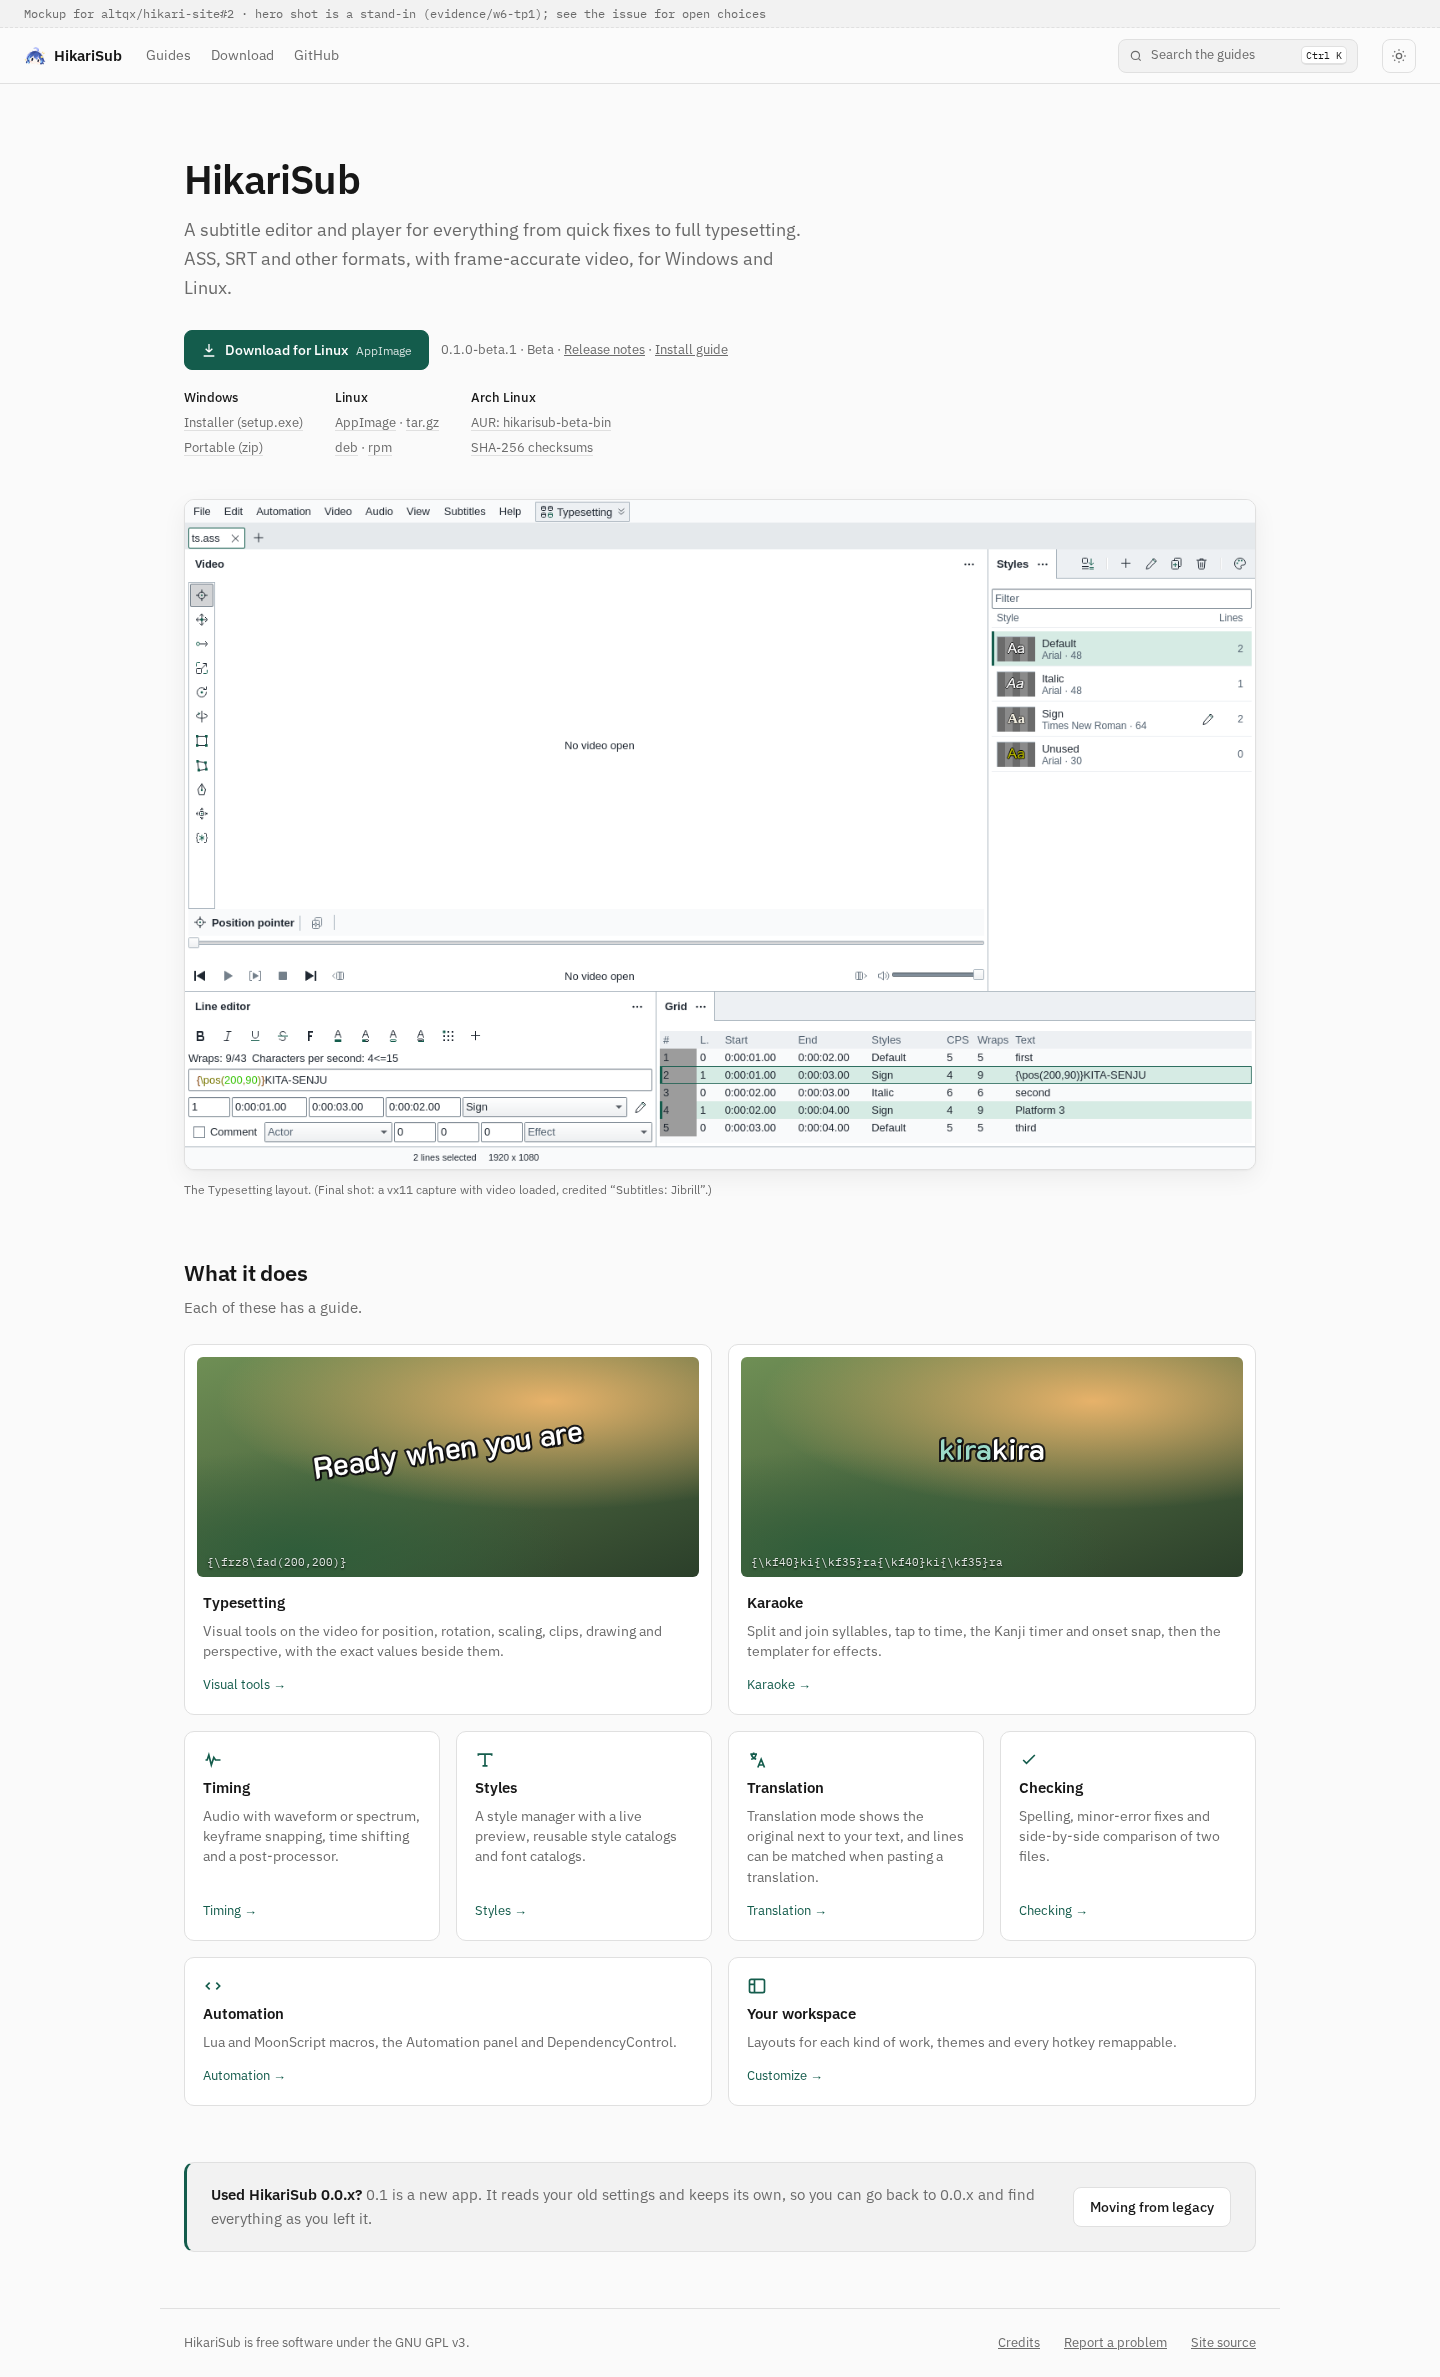
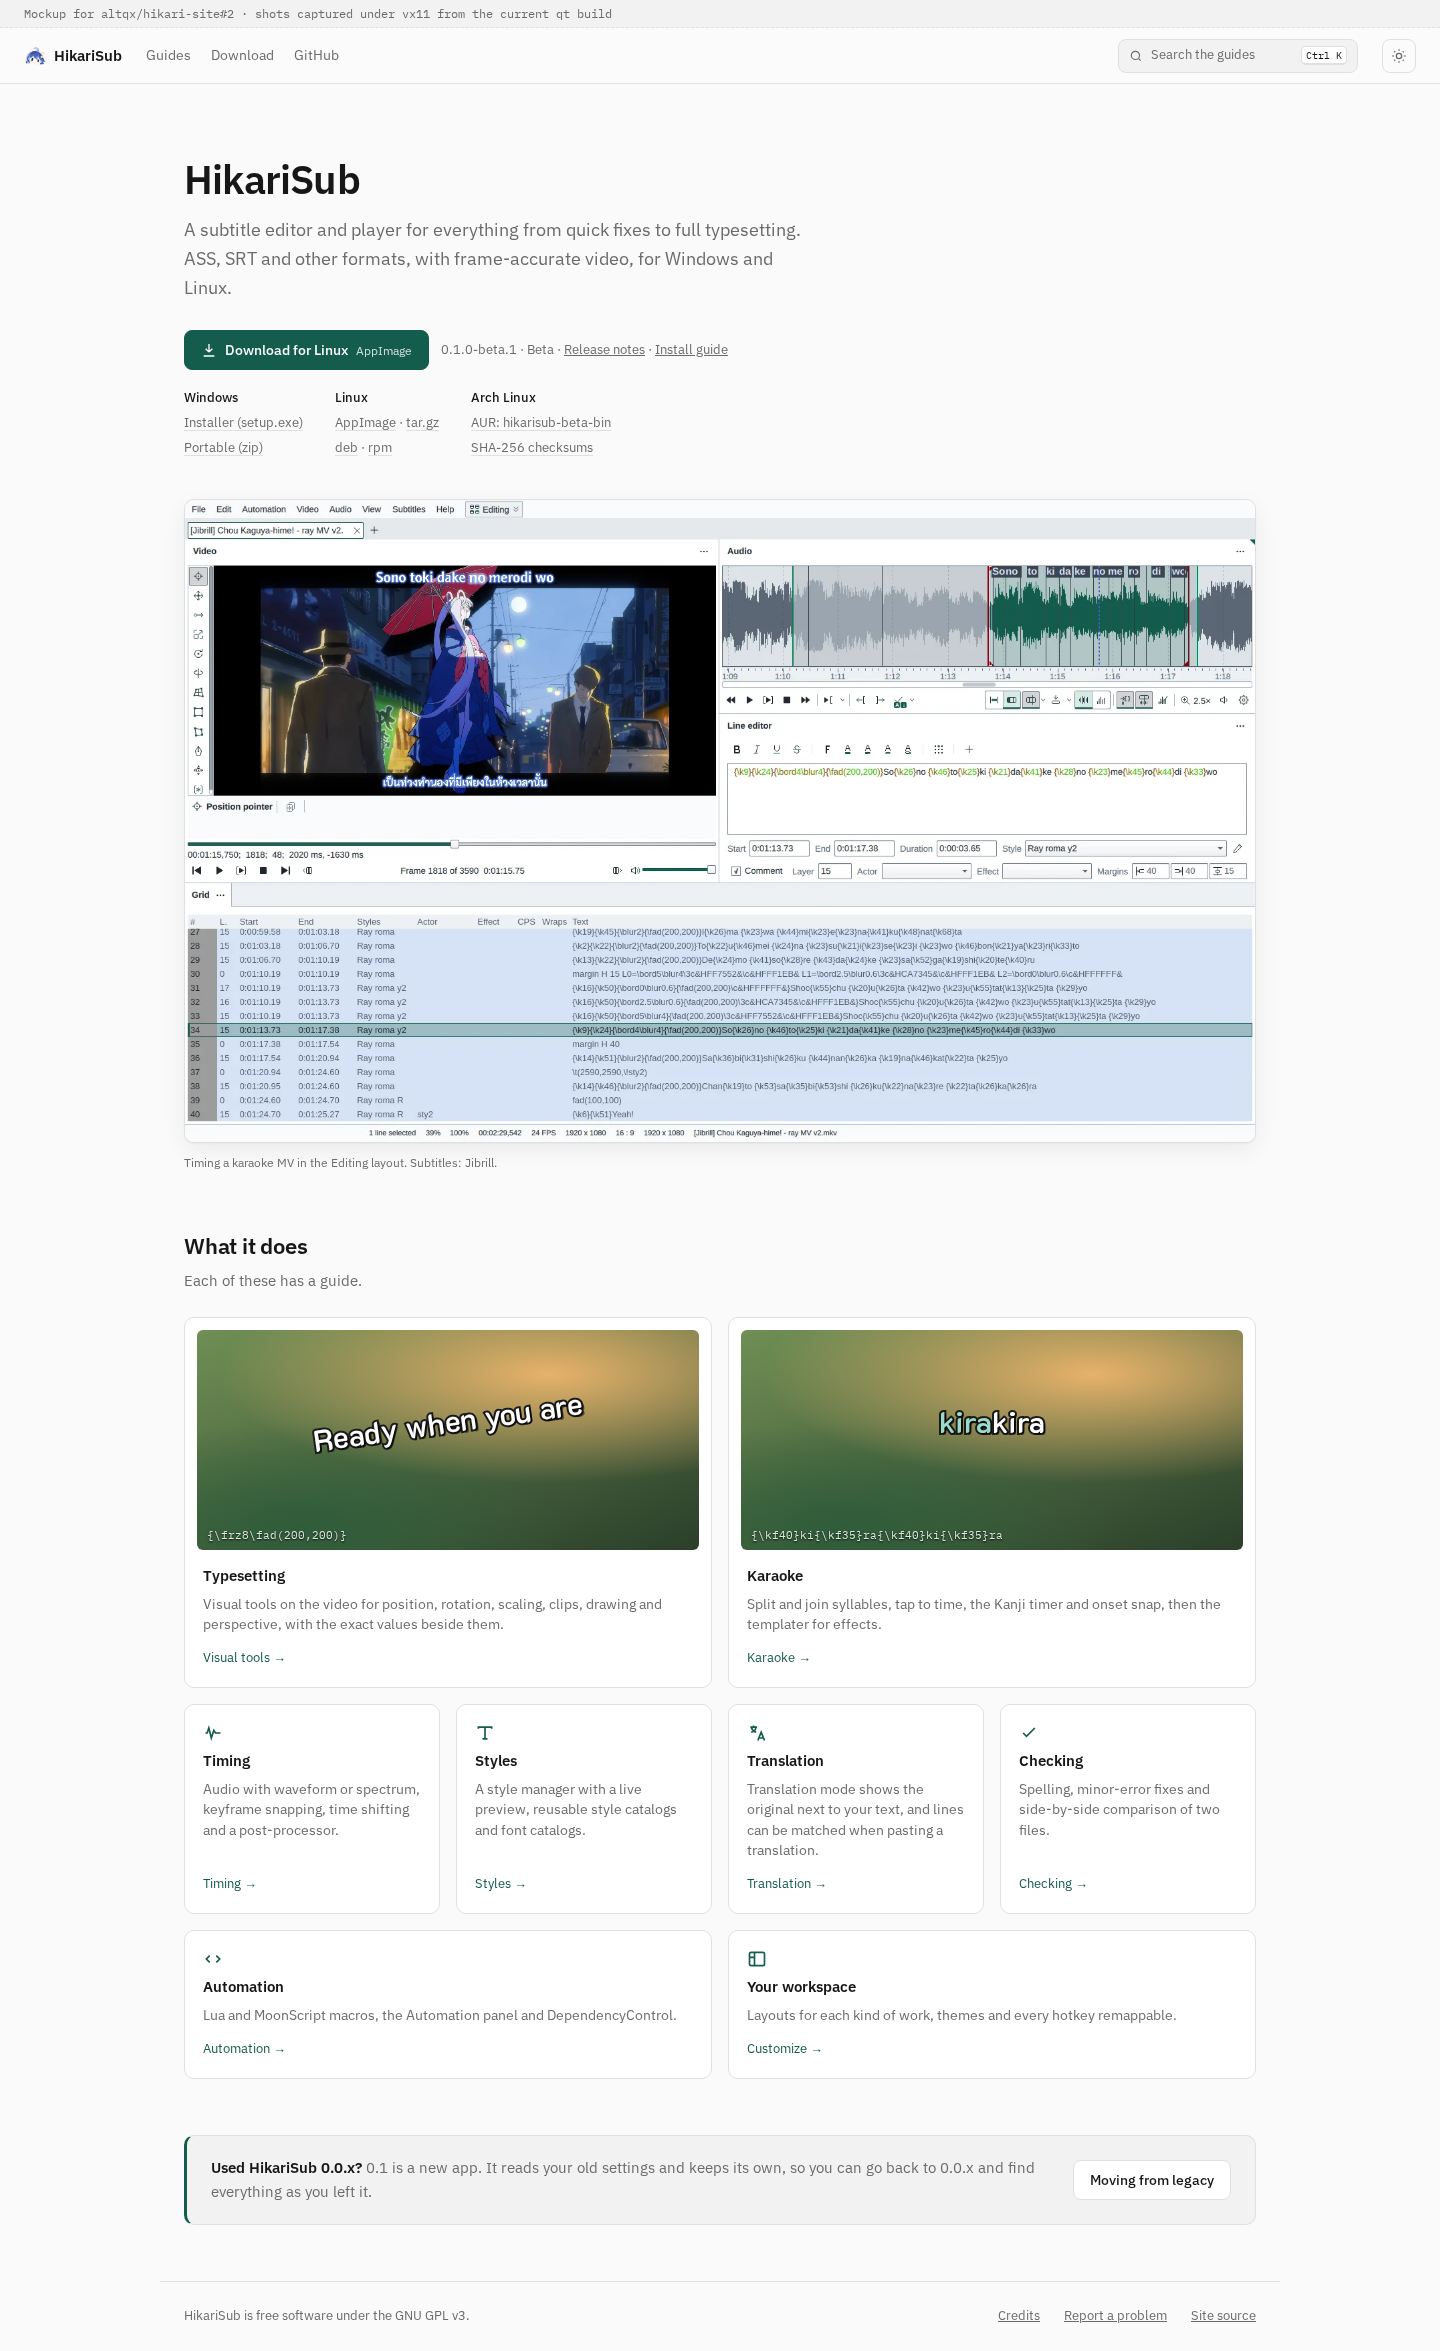
Use fresh qt captures with the Jibrill example in the mockups
The hero is the Editing layout on the ray MV, and the Visual tools page
annotates a Perspective still and shows the corner drag as its clip.
They replace the evidence fixtures, which had no video loaded.

diff --git a/mockups/visual-tools.html b/mockups/visual-tools.html
@@ -262,7 +262,7 @@
     </style>
   </head>
   <body>
-    <p class="mockup-note">Mockup for altqx/hikari-site#2 · screenshots from evidence/w6-vt3-shots and w6-vt1-shots · the preview canvas is a stand-in</p>
+    <p class="mockup-note">Mockup for altqx/hikari-site#2 · shots captured under vx11 from the current qt build · the preview canvas is a stand-in</p>
     <header class="topbar">
       <a class="brand" href="home.html"><img src="img/favicon.png" alt="" />HikariSub</a>
       <nav>
@@ -315,13 +315,13 @@
         <h2 id="parts">Parts of the Video panel</h2>
         <figure class="annotated" style="margin-inline: 0">
           <div class="window-shot">
-            <img class="only-light" src="img/perspective-light.png" alt="The Video panel with the Perspective tool on: the tool rail, a quad with four corner handles, and the inspector bar with Origin and Rotation values." />
-            <img class="only-dark" src="img/perspective-dark.png" alt="The Video panel with the Perspective tool on: the tool rail, a quad with four corner handles, and the inspector bar with Origin and Rotation values." />
+            <img class="only-light" src="img/perspective-light.webp" width="794" height="405" alt="The Video panel with the Perspective tool on: the tool rail, a quad fitted to a Thai sign, and the inspector bar with Origin and Rotation values." />
+            <img class="only-dark" src="img/perspective-dark.webp" width="794" height="405" alt="The Video panel with the Perspective tool on: the tool rail, a quad fitted to a Thai sign, and the inspector bar with Origin and Rotation values." />
           </div>
-          <span class="pin" style="left: 8%; top: 36.5%">1</span>
-          <span class="pin" style="left: 69.5%; top: 18%">2</span>
-          <span class="pin" style="left: 18%; top: 72.6%">3</span>
-          <span class="pin" style="left: 74%; top: 72.6%">4</span>
+          <span class="pin" style="left: 7%; top: 36%">1</span>
+          <span class="pin" style="left: 65%; top: 51%">2</span>
+          <span class="pin" style="left: 21.5%; top: 80.5%">3</span>
+          <span class="pin" style="left: 54%; top: 80.5%">4</span>
         </figure>
         <ol class="legend">
           <li><span class="n">1</span><span>The tool rail. Hover a tool to see its name and key.</span></li>
@@ -329,6 +329,7 @@
           <li><span class="n">3</span><span>The inspector bar: the tool's options for the active line.</span></li>
           <li><span class="n">4</span><span>Exact values. Type a number, or drag across the field to scrub it.</span></li>
         </ol>
+        <p class="figcredit">Subtitles: Jibrill.</p>
 
         <h2 id="tools">The tools</h2>
         <table>
@@ -382,19 +383,22 @@
           <p>Over the video, the arrows nudge instead of stepping frames. Move the pointer to the Grid to step frames with them again.</p>
         </div>
 
-        <h2 id="clip">Drawing a vector clip</h2>
-        <p>Choose a mode in the inspector bar, such as Add line or Move points, then click and drag on the video.</p>
+        <h2 id="clip">Fitting text to a surface</h2>
+        <p>
+          With Perspective (<kbd>Q</kbd>), drag the corners of the quad onto the surface the text should sit on. HikariSub
+          works out the rotation, shear and origin, and the inspector bar shows the values as you drag.
+        </p>
         <figure class="clip" style="margin-inline: 0">
           <div class="window-shot">
-            <img class="only-light" src="img/drawing-light.png" alt="Drawing a vector clip on the video." />
-            <img class="only-dark" src="img/drawing-dark.png" alt="Drawing a vector clip on the video." />
+            <img class="only-light" src="img/perspective-drag-light.webp" width="794" height="405" alt="Dragging a corner of the perspective quad; the Thai line tilts to follow it." />
+            <img class="only-dark" src="img/perspective-drag-dark.webp" width="794" height="405" alt="Dragging a corner of the perspective quad; the Thai line tilts to follow it." />
           </div>
           <span class="state">
             <svg width="12" height="12" viewBox="0 0 24 24" fill="currentColor"><path d="M8 5v14l11-7z" /></svg>
-            8 s loop · muted
+            loop · muted
           </span>
         </figure>
-        <p class="figcredit">Clip: 8 s, AV1 with an H.264 fallback. Plays in view; paused with reduced motion.</p>
+        <p class="figcredit">Subtitles: Jibrill. On the site: AV1 MP4 with an H.264 fallback, plays in view, paused with reduced motion.</p>
 
         <h2 id="undo">Undo and cancelling</h2>
         <p>Each drag is one step in the history. Press <kbd>Esc</kbd> during a drag to drop it.</p>
@@ -415,7 +419,7 @@
         <a href="#tools" aria-current="true">The tools</a>
         <a href="#try">Try a rotation</a>
         <a href="#nudge">Nudging with the arrow keys</a>
-        <a href="#clip">Drawing a vector clip</a>
+        <a href="#clip">Fitting text to a surface</a>
         <a href="#undo">Undo and cancelling</a>
       </nav>
     </div>

diff --git a/mockups/home.html b/mockups/home.html
@@ -184,7 +184,7 @@
   </head>
   <body>
     <p class="mockup-note">
-      Mockup for altqx/hikari-site#2 · hero shot is a stand-in (evidence/w6-tp1); see the issue for open choices
+      Mockup for altqx/hikari-site#2 · shots captured under vx11 from the current qt build
     </p>
     <header class="topbar">
       <a class="brand" href="#"><img src="img/favicon.png" alt="" />HikariSub</a>
@@ -236,10 +236,10 @@
 
         <figure style="margin: 0">
           <div class="window-shot">
-            <img class="only-light" src="img/hero-light.png" alt="HikariSub in the Typesetting layout: video with the tool rail, the Styles panel, the Line editor and the Grid." />
-            <img class="only-dark" src="img/hero-dark.png" alt="HikariSub in the Typesetting layout: video with the tool rail, the Styles panel, the Line editor and the Grid." />
+            <img class="only-light" src="img/hero-light.webp" width="1600" height="960" alt="HikariSub editing a karaoke MV: the video with the typeset karaoke, the audio waveform with its syllables, the Line editor and the Grid." />
+            <img class="only-dark" src="img/hero-dark.webp" width="1600" height="960" alt="HikariSub editing a karaoke MV: the video with the typeset karaoke, the audio waveform with its syllables, the Line editor and the Grid." />
           </div>
-          <figcaption class="shot-caption">The Typesetting layout. (Final shot: a vx11 capture with video loaded, credited “Subtitles: Jibrill”.)</figcaption>
+          <figcaption class="shot-caption">Timing a karaoke MV in the Editing layout. Subtitles: Jibrill.</figcaption>
         </figure>
       </section>
 

diff --git a/mockups/README.md b/mockups/README.md
@@ -2,11 +2,11 @@
 
 Static HTML, light and dark (follows the system; `?theme=dark` forces it). Render with `node mockups/shoot.mjs` from a checkout with the site's `node_modules`.
 
-Screenshots come from non-mockup evidence branches of altqx/hikari:
+App images are captures from the current qt build (coordinator's coord2 tree, qt at 6c0d80daa905ceef36e3f1947190d440e1774344), taken under vx11 by the README thread with the Jibrill ray MV example loaded. Credit: "Subtitles: Jibrill". The MV's .mkv, .ass and fonts are not in this repo.
 
-| Image | Branch | Commit |
-| --- | --- | --- |
-| `img/hero-*.png` | `evidence/w6-tp1` (`typesetting-arrangement-*`) | bd23bcb7ea9a2db97e614a93dcaad45b2255e187 |
-| `img/perspective-*.png` | `evidence/w6-vt3-shots` (`vt3-perspective-*`) | 143577350d165e48e529c7a3a56f58fe3ea3c335 |
-| `img/drawing-*.png` | `evidence/w6-vt1-shots` (`vt1-drawing-*`) | 8884821261f9a5dd31bddd78adc0421318f07ad3 |
-| `img/favicon.png` | `qt`, `packaging/linux/icons/hicolor/32x32/apps/hikarisub.png` | 6c0d80daa905ceef36e3f1947190d440e1774344 |
+| Image | Source |
+| --- | --- |
+| `img/hero-*.webp` | `~/.cache/readme/shots/hero-{light,dark}.png`, Editing layout at 1:15.75 |
+| `img/perspective-*.webp` | last frame of `img/perspective-drag-*.webp` |
+| `img/perspective-drag-*.webp` | `~/.cache/readme/frames/persp-{light,dark}.webp`, a Perspective corner drag |
+| `img/favicon.png` | `qt`, `packaging/linux/icons/hicolor/32x32/apps/hikarisub.png` |
